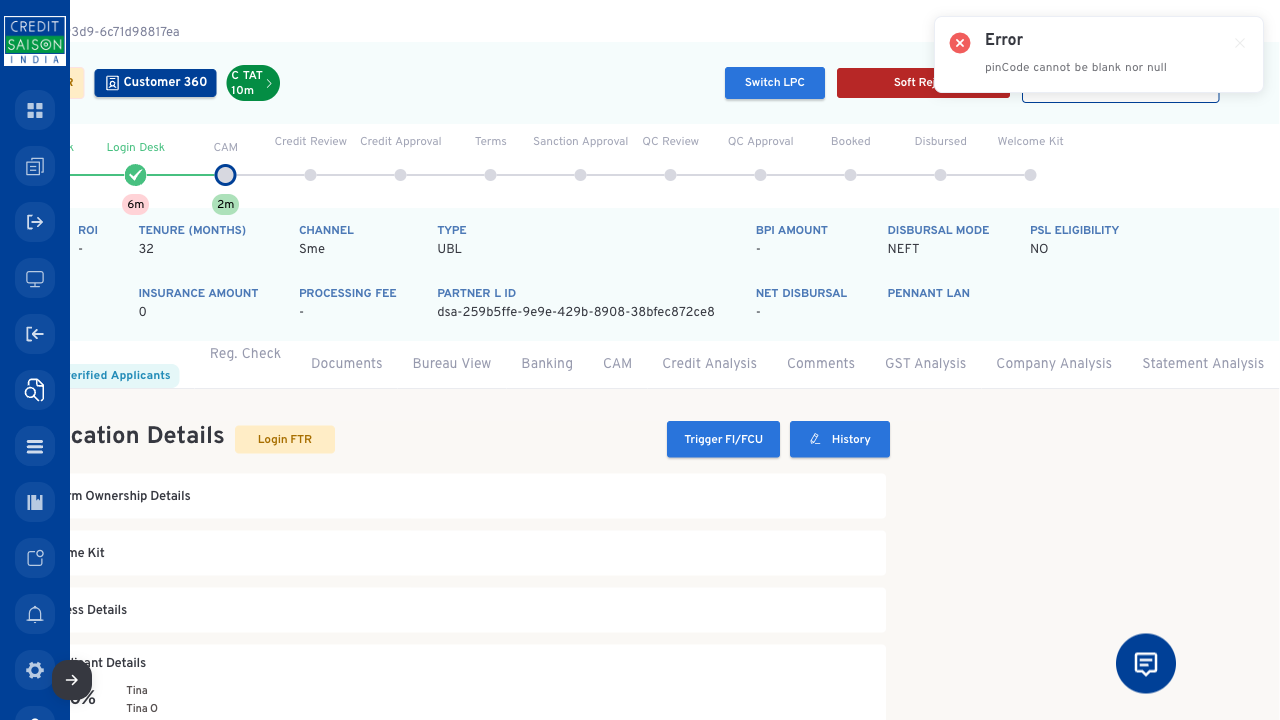
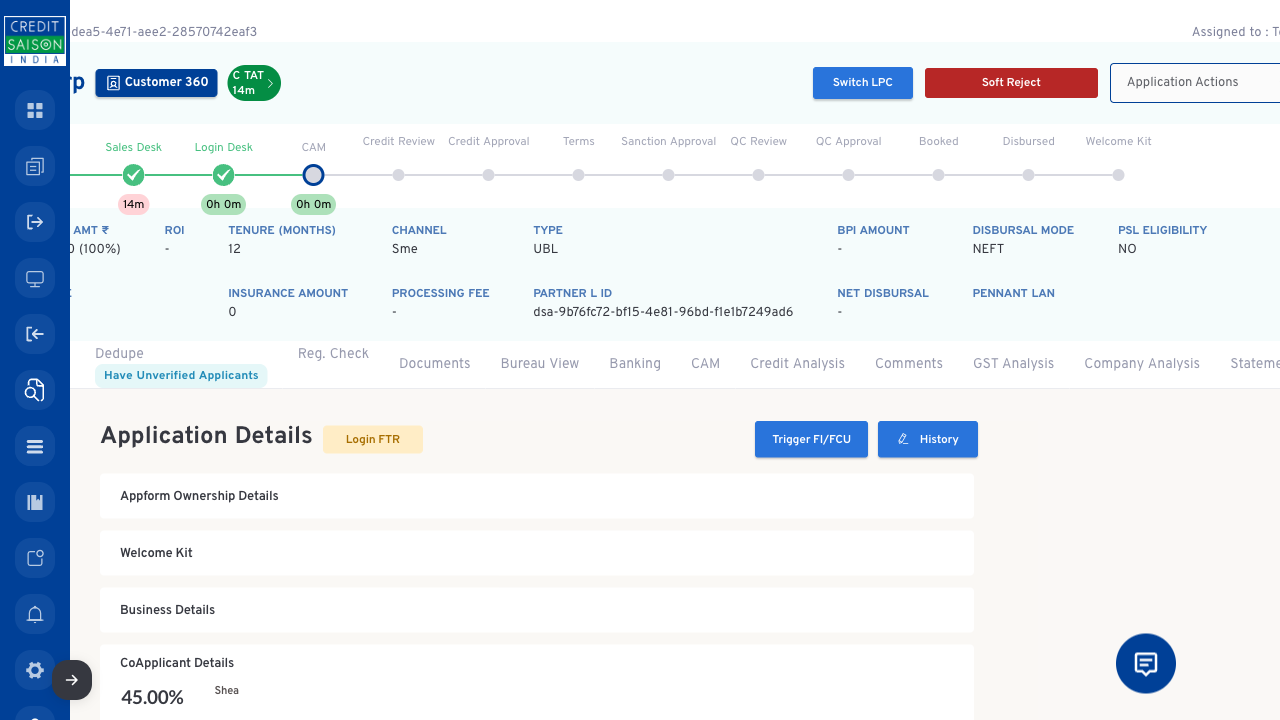
Added changes
Added changes

diff --git a/src/test/java/ui/stepDefinitions/jarvis/ApplicationDetailsSteps.java b/src/test/java/ui/stepDefinitions/jarvis/ApplicationDetailsSteps.java
@@ -10,30 +10,9 @@ import ui.pages.jarvis.AppFormPage.DedupeTab.Dedupe;
 
 public class ApplicationDetailsSteps {
 
-    private final BusinessDetails businessDetailsPage;
-    private final BankDetails bankDetailsPage;
-    private final LoanRequirment loanRequirment;
-    private final AppFormOwnerShipDetails appFormOwnerShipDetails;
-    private final Dedupe dedupe;
-    private final EsignDocuments eSignPage;
-    private final InsuranceDetails insurancePage;
-    private final CoApplicantDetails coApplicantDetails;
-    private final BeneficiaryOwnerDetails beneficiaryOwnerDetails;
-
-    public ApplicationDetailsSteps() {
-        this.businessDetailsPage = new BusinessDetails(BaseTest.getPage());
-        this.bankDetailsPage = new BankDetails(BaseTest.getPage());
-        this.loanRequirment = new LoanRequirment(BaseTest.getPage());
-        this.dedupe = new Dedupe(BaseTest.getPage());
-        this.appFormOwnerShipDetails = new AppFormOwnerShipDetails(BaseTest.getPage());
-        this.eSignPage = new EsignDocuments(BaseTest.getPage());
-        this.insurancePage = new InsuranceDetails(BaseTest.getPage());
-        this.coApplicantDetails = new CoApplicantDetails(BaseTest.getPage());
-        this.beneficiaryOwnerDetails = new BeneficiaryOwnerDetails(BaseTest.getPage());
-    }
-
     @And("User updates the Business Details with the following data:")
     public void updateBusinessDetails(Map<String, String> details) {
+        BusinessDetails businessDetailsPage = new BusinessDetails(BaseTest.getPage());
         businessDetailsPage.openBusinessDetailsAndEdit();
         businessDetailsPage.fillCompanyDetails(details,"Updating_Business_Details");
         businessDetailsPage.navigateBackToAppDetails();
@@ -41,12 +20,15 @@ public class ApplicationDetailsSteps {
 
     @And("User updates the Bank Details with the following data:")
     public void updateBankDetailsWithData(Map<String, String> details) {
+        BankDetails bankDetailsPage = new BankDetails(BaseTest.getPage());
         bankDetailsPage.openBankDetailsAndEdit();
         bankDetailsPage.fillBankDetails(details, "Updating_Bank_Details");
     }
 
     @And("User opens the Loan Requirements section and updates the details")
     public void userOpensLoanRequirementsAndEdits() {
+        Dedupe dedupe = new Dedupe(BaseTest.getPage());
+        LoanRequirment loanRequirment = new LoanRequirment(BaseTest.getPage());
         dedupe.navigateToAppFormTab();
         loanRequirment.openLoanRequirementsAndEdit();
         loanRequirment.fillLoanRequirementsAndSubmit("Updating_Loan_Requirements");
@@ -54,6 +36,8 @@ public class ApplicationDetailsSteps {
 
     @And("User updates the Appform Ownership Details with the following data:")
     public void updateAppFormOwnershipDetails(Map<String, String> details) {
+        Dedupe dedupe = new Dedupe(BaseTest.getPage());
+        AppFormOwnerShipDetails appFormOwnerShipDetails = new AppFormOwnerShipDetails(BaseTest.getPage());
         dedupe.navigateToAppFormTab();
         appFormOwnerShipDetails.openAppFormOwnerShipAndEdit();
         appFormOwnerShipDetails.selectCreditApproverAndSubmit(details, "Updating_Appform_Ownership_Details");
@@ -61,29 +45,34 @@ public class ApplicationDetailsSteps {
 
     @And("User opens the Loan Requirements section and initiates Credit Approval with reason {string}")
     public void userInitiatesCreditApproval(String reason) {
+        LoanRequirment loanRequirment = new LoanRequirment(BaseTest.getPage());
         loanRequirment.openLoanRequirementsAndEdit();
         loanRequirment.initiateCreditApproval(reason);
     }
 
     @And("User opens E-Sign section, generates documents, and opts for offline signatures")
     public void processESignOffline() {
+        EsignDocuments eSignPage = new EsignDocuments(BaseTest.getPage());
         eSignPage.openESignSection();
         eSignPage.optInForOfflineSignatures("ESign_Offline_Signatures");
     }
 
     @And("User opens Insurance Details and updates Insurance and Nominee Details with the following data")
     public void openInsuranceDetails(Map<String, String> data) {
+        InsuranceDetails insurancePage = new InsuranceDetails(BaseTest.getPage());
         insurancePage.openInsuranceAndEdit();
         insurancePage.fillInsuranceAndSubmit(data, "Updating_Insurance_Details");
     }
 
     @And("User adds Aadhaar number {string} in Co-Applicant Details")
     public void addAadhaarInCoApplicantDetails(String aadhaarNumber) {
+        CoApplicantDetails coApplicantDetails = new CoApplicantDetails(BaseTest.getPage());
         coApplicantDetails.addAadhaarToCoApplicant(aadhaarNumber, "Adding_CoApplicant_Aadhaar");
     }
 
     @And("User adds Beneficiary Owner Details for entity {string} and applicant {string}")
     public void addBeneficiaryOwnerDetails(String entity, String applicant) {
+        BeneficiaryOwnerDetails beneficiaryOwnerDetails = new BeneficiaryOwnerDetails(BaseTest.getPage());
         beneficiaryOwnerDetails.addBeneficiaryOwner(entity, applicant, "Adding_Beneficiary_Owner");
     }
 

diff --git a/src/test/java/ui/stepDefinitions/jarvis/AppFormDashboardSteps.java b/src/test/java/ui/stepDefinitions/jarvis/AppFormDashboardSteps.java
@@ -9,35 +9,27 @@ import ui.pages.jarvis.AppFormPage.VerificationTab.VerificationTab;
 
 public class AppFormDashboardSteps extends BaseTest {
 
-    private final Dedupe dedupeTab ;
-    private final RegCheck regCheckTab;
-    private final Cam camTab ;
-    private final VerificationTab verificationPage ;
-
-    public AppFormDashboardSteps() {
-        this.dedupeTab = new Dedupe(getPage());
-        this.regCheckTab = new RegCheck(getPage());
-        this.camTab = new Cam(getPage());
-        this.verificationPage = new VerificationTab(getPage());
-    }
-
     @And("User navigates to the Dedupe tab in Application Dashboard")
     public void navigateDedupe()  {
+        Dedupe dedupeTab = new Dedupe(getPage());
         dedupeTab.selectDedupeTab();
     }
 
     @And("User navigates to the RegCheck tab in Application Dashboard")
     public void navigateToRegCheckTab() {
+        RegCheck regCheckTab = new RegCheck(getPage());
         regCheckTab.selectRegCheckTabAndValidate();
     }
 
     @And("User navigates to the CAM tab in Application Dashboard and start the cam")
     public void navigateToCamTab() {
-         camTab.selectCamTab();
+        Cam camTab = new Cam(getPage());
+        camTab.selectCamTab();
     }
 
     @And("User navigates to the Verification tab and resolves the Udyam KYC status")
     public void userNavigatesToVerificationTab() {
+        VerificationTab verificationPage = new VerificationTab(getPage());
         verificationPage.navigateToVerificationTab();
         verificationPage.resolveUdyamKyc("Resolving Udyam KYC status");
     }

diff --git a/src/test/java/ui/stepDefinitions/jarvis/ApplicationSteps.java b/src/test/java/ui/stepDefinitions/jarvis/ApplicationSteps.java
@@ -10,14 +10,17 @@ import static dynamicData.DynamicDataClass.get;
 
 public class ApplicationSteps extends BaseTest {
 
-    private final ApplicationDashboardPage applicationDashboardPage = new ApplicationDashboardPage(BaseTest.getPage());
-    private final DashboardPage dashboardPage = new DashboardPage(BaseTest.getPage());
+    private ApplicationDashboardPage applicationDashboardPage;
+    private DashboardPage dashboardPage;
 
     @And("User navigates to the Applications tab searches appFrom using {string} and opens the appform")
     public void openAppFromInJarvis(String searchType) throws InterruptedException {
+        applicationDashboardPage = new ApplicationDashboardPage(BaseTest.getPage());
+        dashboardPage = new DashboardPage(BaseTest.getPage());
+        
         dashboardPage.navigateToApplicationTab();
 
-        applicationDashboardPage.searchByCriteria(searchType, "dsa-db1fc6a0-b1a9-48f7-8a06-cb3ed1ac5044");
+        applicationDashboardPage.searchByCriteria(searchType, "dsa-9b76fc72-bf15-4e81-96bd-f1e1b7249ad6");
 
         // Capture and store App ID before clicking open — needed for Allocation
         Thread.sleep(800);

diff --git a/src/test/java/ui/stepDefinitions/jarvis/AppFormActionsSteps.java b/src/test/java/ui/stepDefinitions/jarvis/AppFormActionsSteps.java
@@ -6,19 +6,15 @@ import ui.pages.jarvis.AppFormPage.ApplicationPage;
 
 public class AppFormActionsSteps {
 
-    private final ApplicationPage appFormActionsPage ;
-
-        public AppFormActionsSteps() {
-            this.appFormActionsPage = new ApplicationPage(BaseTest.getPage());
-        }
-
     @And("User selects {string} from Application Actions and moves appForm next stage")
     public void userSelectsApplicationAction(String action) throws InterruptedException {
+        ApplicationPage appFormActionsPage = new ApplicationPage(BaseTest.getPage());
         appFormActionsPage.selectApplicationActionAndAccept(action,"Moving_AppFrom");
     }
 
     @And("User moves application to {string} assigned to level {string} and user {string}")
     public void moveApplicationWithAssignment(String action, String level, String email) {
+        ApplicationPage appFormActionsPage = new ApplicationPage(BaseTest.getPage());
         appFormActionsPage.selectActionWithAssignment(action, level, email, "Moving_AppFrom");
     }
 }

diff --git a/src/test/java/ui/stepDefinitions/jarvis/AllocationDashboardSteps.java b/src/test/java/ui/stepDefinitions/jarvis/AllocationDashboardSteps.java
@@ -12,11 +12,13 @@ public class AllocationDashboardSteps extends BaseTest {
     private static final String TENJIN_EMAIL = "[email redacted]";
     private static final String TENJIN_DISPLAY_NAME = "Tenjin User";
 
-    private final AllocationDashboardPage allocationPage = new AllocationDashboardPage(BaseTest.getPage());
-    private final DashboardPage dashboardPage = new DashboardPage(BaseTest.getPage());
+    private AllocationDashboardPage allocationPage;
+    private DashboardPage dashboardPage;
 
     @And("User navigates to the Allocation Dashboard and assign appform to self using app ID")
     public void assignAppFormToSelf() throws InterruptedException {
+        allocationPage = new AllocationDashboardPage(BaseTest.getPage());
+        dashboardPage = new DashboardPage(BaseTest.getPage());
         // 1. Navigate and setup view
         dashboardPage.navigateToAllocationDashboard();
         allocationPage.switchToTeamView();

diff --git a/src/test/java/ui/stepDefinitions/jarvis/LoginSteps.java b/src/test/java/ui/stepDefinitions/jarvis/LoginSteps.java
@@ -5,7 +5,7 @@ import io.cucumber.java.en.*;
 import ui.pages.jarvis.LoginPage;
 
 public class LoginSteps extends BaseTest {
-    private LoginPage jarvisPage = new LoginPage(BaseTest.getPage());
+    private LoginPage jarvisPage;
 
     @And("User switches to Jarvis portal and logins")
     public void switchToJarvisAndLogin() throws Exception {
@@ -14,6 +14,7 @@ public class LoginSteps extends BaseTest {
 
         BaseTest.switchToJarvisPortal();
 
+        jarvisPage = new LoginPage(BaseTest.getPage());
         jarvisPage.login();
     }
 }